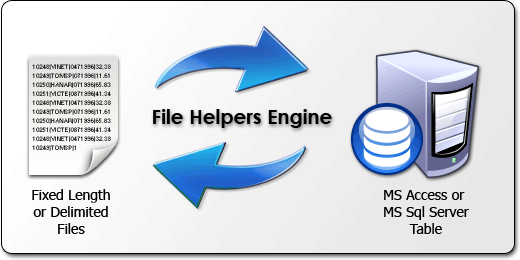
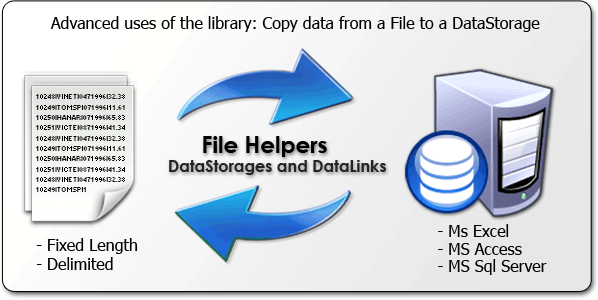
MOD: New graphics for the use cases.

diff --git a/Doc/Include/default.html b/Doc/Include/default.html
@@ -59,8 +59,8 @@
 						</blockquote>
 						<h2>Basic Uses of the Library</h2>
 						<blockquote>
-							<p><img src="use_case1.png" width="520" height="260"></p>
-							<p><img src="use_case2.png" width="520" height="260"></p>
+							<p><img src="use_case1.png" width="598" height="300"></p>
+							<p><img src="use_case2.png" width="598" height="300"></p>
 						</blockquote>
 						<h2>Who needs the File Helpers Library ?
 						</h2>
